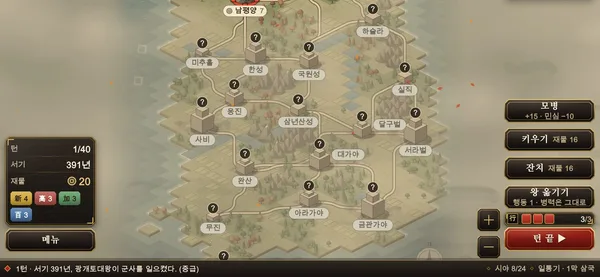
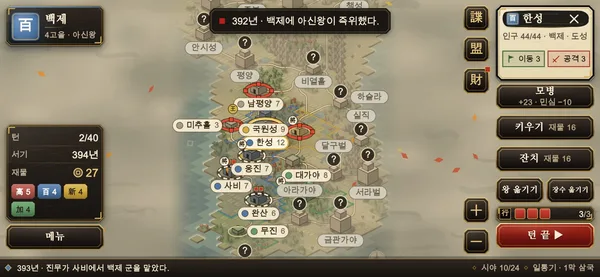
release: 1.0.0+45 개발소식

diff --git a/ko/releases/index.html b/ko/releases/index.html
@@ -67,6 +67,16 @@
       <h1>개발 소식</h1>
       <p class="callout">아직 출시 전입니다. 이 페이지는 TestFlight 로 올라가는 개발 빌드마다 바뀐 점을 플레이어가 알아보기 쉬운 말로 적습니다. 최신 빌드가 맨 위입니다.</p>
       <div class="rel-list">
+      <article class="rel" id="b45">
+        <h2 class="rel__head"><span class="rel__build">1.0.0+45</span></h2>
+        <p class="rel__at">2026-10-30 13:35 KST</p>
+        <ul>
+          <li>새 판을 고를 때 「시대」를 정할 수 있어요. 영웅판은 지금처럼 시대를 넘은 왕과 장수가 한 판에 모이고(연도 표시 없음), 역사판은 391년 그해의 실제 왕과 도성으로 시작해요.</li>
+          <li>역사판에서는 광개토대왕 · 진사왕 · 내물 마립간 · 이시품왕이 국내성 · 한성 · 서라벌 · 금관가야에서 시작하고, 해가 지나면 392년 아신왕 · 412년 장수왕처럼 실제 순서대로 왕이 바뀌어요.</li>
+          <li>역사판 장수는 그 시대 사람만 나와요. 이름이 전하지 않는 자리는 「○○ 장군」으로 두고, 진무 · 박제상 · 이사부 · 김유신 같은 실존 장수가 기록에 나오는 해에 나서요.</li>
+          <li>427년 평양 천도처럼 역사 속 일들이 해마다 소식으로 와요. 역사판 막 열기 이야기와 391년 인물 열전도 새로 썼어요.</li>
+        </ul>
+      </article>
       <article class="rel" id="b44">
         <h2 class="rel__head"><span class="rel__build">1.0.0+44</span></h2>
         <p class="rel__at">2026-10-30 12:51 KST</p>

diff --git a/ru/releases/index.html b/ru/releases/index.html
@@ -68,6 +68,16 @@
       <p class="meta">Эта страница показана на английском.</p>
       <p class="callout">Iltonggi is not released yet. This page lists, in plain words, what changed in each development build we send to TestFlight. The newest build is at the top.</p>
       <div class="rel-list">
+      <article class="rel" id="b45">
+        <h2 class="rel__head"><span class="rel__build">1.0.0+45</span></h2>
+        <p class="rel__at">2026-10-30 13:35 KST</p>
+        <ul>
+          <li>You can now choose an Era when starting a new game. Heroes keeps famous kings and generals from every age together in one game (no years shown); Historical starts in 391 with the real kings and capitals of that year.</li>
+          <li>In Historical, Gwanggaeto, Jinsa, Naemul Maripgan and Isipum begin at Gungnae, Hanseong, Seorabeol and Geumgwan Gaya, and kings change in their true order as the years pass — Asin in 392, Jangsu in 412 and onward.</li>
+          <li>Historical generals belong to their own age. Where no name survives, a commander is shown as “General of …”, and real generals such as Jinmu, Bak Jesang, Isabu and Kim Yusin step forward in the years the records name them.</li>
+          <li>Events such as the move of the capital to Pyeongyang in 427 arrive as yearly news. There is also a new act opening for Historical and short biographies for the people of 391.</li>
+        </ul>
+      </article>
       <article class="rel" id="b44">
         <h2 class="rel__head"><span class="rel__build">1.0.0+44</span></h2>
         <p class="rel__at">2026-10-30 12:51 KST</p>

diff --git a/vi/releases/index.html b/vi/releases/index.html
@@ -68,6 +68,16 @@
       <p class="meta">Trang này được hiển thị bằng tiếng Anh.</p>
       <p class="callout">Iltonggi is not released yet. This page lists, in plain words, what changed in each development build we send to TestFlight. The newest build is at the top.</p>
       <div class="rel-list">
+      <article class="rel" id="b45">
+        <h2 class="rel__head"><span class="rel__build">1.0.0+45</span></h2>
+        <p class="rel__at">2026-10-30 13:35 KST</p>
+        <ul>
+          <li>You can now choose an Era when starting a new game. Heroes keeps famous kings and generals from every age together in one game (no years shown); Historical starts in 391 with the real kings and capitals of that year.</li>
+          <li>In Historical, Gwanggaeto, Jinsa, Naemul Maripgan and Isipum begin at Gungnae, Hanseong, Seorabeol and Geumgwan Gaya, and kings change in their true order as the years pass — Asin in 392, Jangsu in 412 and onward.</li>
+          <li>Historical generals belong to their own age. Where no name survives, a commander is shown as “General of …”, and real generals such as Jinmu, Bak Jesang, Isabu and Kim Yusin step forward in the years the records name them.</li>
+          <li>Events such as the move of the capital to Pyeongyang in 427 arrive as yearly news. There is also a new act opening for Historical and short biographies for the people of 391.</li>
+        </ul>
+      </article>
       <article class="rel" id="b44">
         <h2 class="rel__head"><span class="rel__build">1.0.0+44</span></h2>
         <p class="rel__at">2026-10-30 12:51 KST</p>

diff --git a/ja/releases/index.html b/ja/releases/index.html
@@ -68,6 +68,16 @@
       <p class="meta">このページは英語で表示されます。</p>
       <p class="callout">Iltonggi is not released yet. This page lists, in plain words, what changed in each development build we send to TestFlight. The newest build is at the top.</p>
       <div class="rel-list">
+      <article class="rel" id="b45">
+        <h2 class="rel__head"><span class="rel__build">1.0.0+45</span></h2>
+        <p class="rel__at">2026-10-30 13:35 KST</p>
+        <ul>
+          <li>You can now choose an Era when starting a new game. Heroes keeps famous kings and generals from every age together in one game (no years shown); Historical starts in 391 with the real kings and capitals of that year.</li>
+          <li>In Historical, Gwanggaeto, Jinsa, Naemul Maripgan and Isipum begin at Gungnae, Hanseong, Seorabeol and Geumgwan Gaya, and kings change in their true order as the years pass — Asin in 392, Jangsu in 412 and onward.</li>
+          <li>Historical generals belong to their own age. Where no name survives, a commander is shown as “General of …”, and real generals such as Jinmu, Bak Jesang, Isabu and Kim Yusin step forward in the years the records name them.</li>
+          <li>Events such as the move of the capital to Pyeongyang in 427 arrive as yearly news. There is also a new act opening for Historical and short biographies for the people of 391.</li>
+        </ul>
+      </article>
       <article class="rel" id="b44">
         <h2 class="rel__head"><span class="rel__build">1.0.0+44</span></h2>
         <p class="rel__at">2026-10-30 12:51 KST</p>

diff --git a/id/releases/index.html b/id/releases/index.html
@@ -68,6 +68,16 @@
       <p class="meta">Halaman ini ditampilkan dalam bahasa Inggris.</p>
       <p class="callout">Iltonggi is not released yet. This page lists, in plain words, what changed in each development build we send to TestFlight. The newest build is at the top.</p>
       <div class="rel-list">
+      <article class="rel" id="b45">
+        <h2 class="rel__head"><span class="rel__build">1.0.0+45</span></h2>
+        <p class="rel__at">2026-10-30 13:35 KST</p>
+        <ul>
+          <li>You can now choose an Era when starting a new game. Heroes keeps famous kings and generals from every age together in one game (no years shown); Historical starts in 391 with the real kings and capitals of that year.</li>
+          <li>In Historical, Gwanggaeto, Jinsa, Naemul Maripgan and Isipum begin at Gungnae, Hanseong, Seorabeol and Geumgwan Gaya, and kings change in their true order as the years pass — Asin in 392, Jangsu in 412 and onward.</li>
+          <li>Historical generals belong to their own age. Where no name survives, a commander is shown as “General of …”, and real generals such as Jinmu, Bak Jesang, Isabu and Kim Yusin step forward in the years the records name them.</li>
+          <li>Events such as the move of the capital to Pyeongyang in 427 arrive as yearly news. There is also a new act opening for Historical and short biographies for the people of 391.</li>
+        </ul>
+      </article>
       <article class="rel" id="b44">
         <h2 class="rel__head"><span class="rel__build">1.0.0+44</span></h2>
         <p class="rel__at">2026-10-30 12:51 KST</p>

diff --git a/de/releases/index.html b/de/releases/index.html
@@ -68,6 +68,16 @@
       <p class="meta">Diese Seite wird auf Englisch angezeigt.</p>
       <p class="callout">Iltonggi is not released yet. This page lists, in plain words, what changed in each development build we send to TestFlight. The newest build is at the top.</p>
       <div class="rel-list">
+      <article class="rel" id="b45">
+        <h2 class="rel__head"><span class="rel__build">1.0.0+45</span></h2>
+        <p class="rel__at">2026-10-30 13:35 KST</p>
+        <ul>
+          <li>You can now choose an Era when starting a new game. Heroes keeps famous kings and generals from every age together in one game (no years shown); Historical starts in 391 with the real kings and capitals of that year.</li>
+          <li>In Historical, Gwanggaeto, Jinsa, Naemul Maripgan and Isipum begin at Gungnae, Hanseong, Seorabeol and Geumgwan Gaya, and kings change in their true order as the years pass — Asin in 392, Jangsu in 412 and onward.</li>
+          <li>Historical generals belong to their own age. Where no name survives, a commander is shown as “General of …”, and real generals such as Jinmu, Bak Jesang, Isabu and Kim Yusin step forward in the years the records name them.</li>
+          <li>Events such as the move of the capital to Pyeongyang in 427 arrive as yearly news. There is also a new act opening for Historical and short biographies for the people of 391.</li>
+        </ul>
+      </article>
       <article class="rel" id="b44">
         <h2 class="rel__head"><span class="rel__build">1.0.0+44</span></h2>
         <p class="rel__at">2026-10-30 12:51 KST</p>

diff --git a/fr/releases/index.html b/fr/releases/index.html
@@ -68,6 +68,16 @@
       <p class="meta">Cette page est affichée en anglais.</p>
       <p class="callout">Iltonggi is not released yet. This page lists, in plain words, what changed in each development build we send to TestFlight. The newest build is at the top.</p>
       <div class="rel-list">
+      <article class="rel" id="b45">
+        <h2 class="rel__head"><span class="rel__build">1.0.0+45</span></h2>
+        <p class="rel__at">2026-10-30 13:35 KST</p>
+        <ul>
+          <li>You can now choose an Era when starting a new game. Heroes keeps famous kings and generals from every age together in one game (no years shown); Historical starts in 391 with the real kings and capitals of that year.</li>
+          <li>In Historical, Gwanggaeto, Jinsa, Naemul Maripgan and Isipum begin at Gungnae, Hanseong, Seorabeol and Geumgwan Gaya, and kings change in their true order as the years pass — Asin in 392, Jangsu in 412 and onward.</li>
+          <li>Historical generals belong to their own age. Where no name survives, a commander is shown as “General of …”, and real generals such as Jinmu, Bak Jesang, Isabu and Kim Yusin step forward in the years the records name them.</li>
+          <li>Events such as the move of the capital to Pyeongyang in 427 arrive as yearly news. There is also a new act opening for Historical and short biographies for the people of 391.</li>
+        </ul>
+      </article>
       <article class="rel" id="b44">
         <h2 class="rel__head"><span class="rel__build">1.0.0+44</span></h2>
         <p class="rel__at">2026-10-30 12:51 KST</p>

diff --git a/es/releases/index.html b/es/releases/index.html
@@ -68,6 +68,16 @@
       <p class="meta">Esta página se muestra en inglés.</p>
       <p class="callout">Iltonggi is not released yet. This page lists, in plain words, what changed in each development build we send to TestFlight. The newest build is at the top.</p>
       <div class="rel-list">
+      <article class="rel" id="b45">
+        <h2 class="rel__head"><span class="rel__build">1.0.0+45</span></h2>
+        <p class="rel__at">2026-10-30 13:35 KST</p>
+        <ul>
+          <li>You can now choose an Era when starting a new game. Heroes keeps famous kings and generals from every age together in one game (no years shown); Historical starts in 391 with the real kings and capitals of that year.</li>
+          <li>In Historical, Gwanggaeto, Jinsa, Naemul Maripgan and Isipum begin at Gungnae, Hanseong, Seorabeol and Geumgwan Gaya, and kings change in their true order as the years pass — Asin in 392, Jangsu in 412 and onward.</li>
+          <li>Historical generals belong to their own age. Where no name survives, a commander is shown as “General of …”, and real generals such as Jinmu, Bak Jesang, Isabu and Kim Yusin step forward in the years the records name them.</li>
+          <li>Events such as the move of the capital to Pyeongyang in 427 arrive as yearly news. There is also a new act opening for Historical and short biographies for the people of 391.</li>
+        </ul>
+      </article>
       <article class="rel" id="b44">
         <h2 class="rel__head"><span class="rel__build">1.0.0+44</span></h2>
         <p class="rel__at">2026-10-30 12:51 KST</p>

diff --git a/pt/releases/index.html b/pt/releases/index.html
@@ -68,6 +68,16 @@
       <p class="meta">Esta página é exibida em inglês.</p>
       <p class="callout">Iltonggi is not released yet. This page lists, in plain words, what changed in each development build we send to TestFlight. The newest build is at the top.</p>
       <div class="rel-list">
+      <article class="rel" id="b45">
+        <h2 class="rel__head"><span class="rel__build">1.0.0+45</span></h2>
+        <p class="rel__at">2026-10-30 13:35 KST</p>
+        <ul>
+          <li>You can now choose an Era when starting a new game. Heroes keeps famous kings and generals from every age together in one game (no years shown); Historical starts in 391 with the real kings and capitals of that year.</li>
+          <li>In Historical, Gwanggaeto, Jinsa, Naemul Maripgan and Isipum begin at Gungnae, Hanseong, Seorabeol and Geumgwan Gaya, and kings change in their true order as the years pass — Asin in 392, Jangsu in 412 and onward.</li>
+          <li>Historical generals belong to their own age. Where no name survives, a commander is shown as “General of …”, and real generals such as Jinmu, Bak Jesang, Isabu and Kim Yusin step forward in the years the records name them.</li>
+          <li>Events such as the move of the capital to Pyeongyang in 427 arrive as yearly news. There is also a new act opening for Historical and short biographies for the people of 391.</li>
+        </ul>
+      </article>
       <article class="rel" id="b44">
         <h2 class="rel__head"><span class="rel__build">1.0.0+44</span></h2>
         <p class="rel__at">2026-10-30 12:51 KST</p>

diff --git a/zh/releases/index.html b/zh/releases/index.html
@@ -68,6 +68,16 @@
       <p class="meta">本页以英文显示。</p>
       <p class="callout">Iltonggi is not released yet. This page lists, in plain words, what changed in each development build we send to TestFlight. The newest build is at the top.</p>
       <div class="rel-list">
+      <article class="rel" id="b45">
+        <h2 class="rel__head"><span class="rel__build">1.0.0+45</span></h2>
+        <p class="rel__at">2026-10-30 13:35 KST</p>
+        <ul>
+          <li>You can now choose an Era when starting a new game. Heroes keeps famous kings and generals from every age together in one game (no years shown); Historical starts in 391 with the real kings and capitals of that year.</li>
+          <li>In Historical, Gwanggaeto, Jinsa, Naemul Maripgan and Isipum begin at Gungnae, Hanseong, Seorabeol and Geumgwan Gaya, and kings change in their true order as the years pass — Asin in 392, Jangsu in 412 and onward.</li>
+          <li>Historical generals belong to their own age. Where no name survives, a commander is shown as “General of …”, and real generals such as Jinmu, Bak Jesang, Isabu and Kim Yusin step forward in the years the records name them.</li>
+          <li>Events such as the move of the capital to Pyeongyang in 427 arrive as yearly news. There is also a new act opening for Historical and short biographies for the people of 391.</li>
+        </ul>
+      </article>
       <article class="rel" id="b44">
         <h2 class="rel__head"><span class="rel__build">1.0.0+44</span></h2>
         <p class="rel__at">2026-10-30 12:51 KST</p>

diff --git a/en/releases/index.html b/en/releases/index.html
@@ -67,6 +67,16 @@
       <h1>Release notes</h1>
       <p class="callout">Iltonggi is not released yet. This page lists, in plain words, what changed in each development build we send to TestFlight. The newest build is at the top.</p>
       <div class="rel-list">
+      <article class="rel" id="b45">
+        <h2 class="rel__head"><span class="rel__build">1.0.0+45</span></h2>
+        <p class="rel__at">2026-10-30 13:35 KST</p>
+        <ul>
+          <li>You can now choose an Era when starting a new game. Heroes keeps famous kings and generals from every age together in one game (no years shown); Historical starts in 391 with the real kings and capitals of that year.</li>
+          <li>In Historical, Gwanggaeto, Jinsa, Naemul Maripgan and Isipum begin at Gungnae, Hanseong, Seorabeol and Geumgwan Gaya, and kings change in their true order as the years pass — Asin in 392, Jangsu in 412 and onward.</li>
+          <li>Historical generals belong to their own age. Where no name survives, a commander is shown as “General of …”, and real generals such as Jinmu, Bak Jesang, Isabu and Kim Yusin step forward in the years the records name them.</li>
+          <li>Events such as the move of the capital to Pyeongyang in 427 arrive as yearly news. There is also a new act opening for Historical and short biographies for the people of 391.</li>
+        </ul>
+      </article>
       <article class="rel" id="b44">
         <h2 class="rel__head"><span class="rel__build">1.0.0+44</span></h2>
         <p class="rel__at">2026-10-30 12:51 KST</p>

diff --git a/releases/index.html b/releases/index.html
@@ -67,6 +67,16 @@
       <h1>Release notes</h1>
       <p class="callout">Iltonggi is not released yet. This page lists, in plain words, what changed in each development build we send to TestFlight. The newest build is at the top.</p>
       <div class="rel-list">
+      <article class="rel" id="b45">
+        <h2 class="rel__head"><span class="rel__build">1.0.0+45</span></h2>
+        <p class="rel__at">2026-10-30 13:35 KST</p>
+        <ul>
+          <li>You can now choose an Era when starting a new game. Heroes keeps famous kings and generals from every age together in one game (no years shown); Historical starts in 391 with the real kings and capitals of that year.</li>
+          <li>In Historical, Gwanggaeto, Jinsa, Naemul Maripgan and Isipum begin at Gungnae, Hanseong, Seorabeol and Geumgwan Gaya, and kings change in their true order as the years pass — Asin in 392, Jangsu in 412 and onward.</li>
+          <li>Historical generals belong to their own age. Where no name survives, a commander is shown as “General of …”, and real generals such as Jinmu, Bak Jesang, Isabu and Kim Yusin step forward in the years the records name them.</li>
+          <li>Events such as the move of the capital to Pyeongyang in 427 arrive as yearly news. There is also a new act opening for Historical and short biographies for the people of 391.</li>
+        </ul>
+      </article>
       <article class="rel" id="b44">
         <h2 class="rel__head"><span class="rel__build">1.0.0+44</span></h2>
         <p class="rel__at">2026-10-30 12:51 KST</p>
